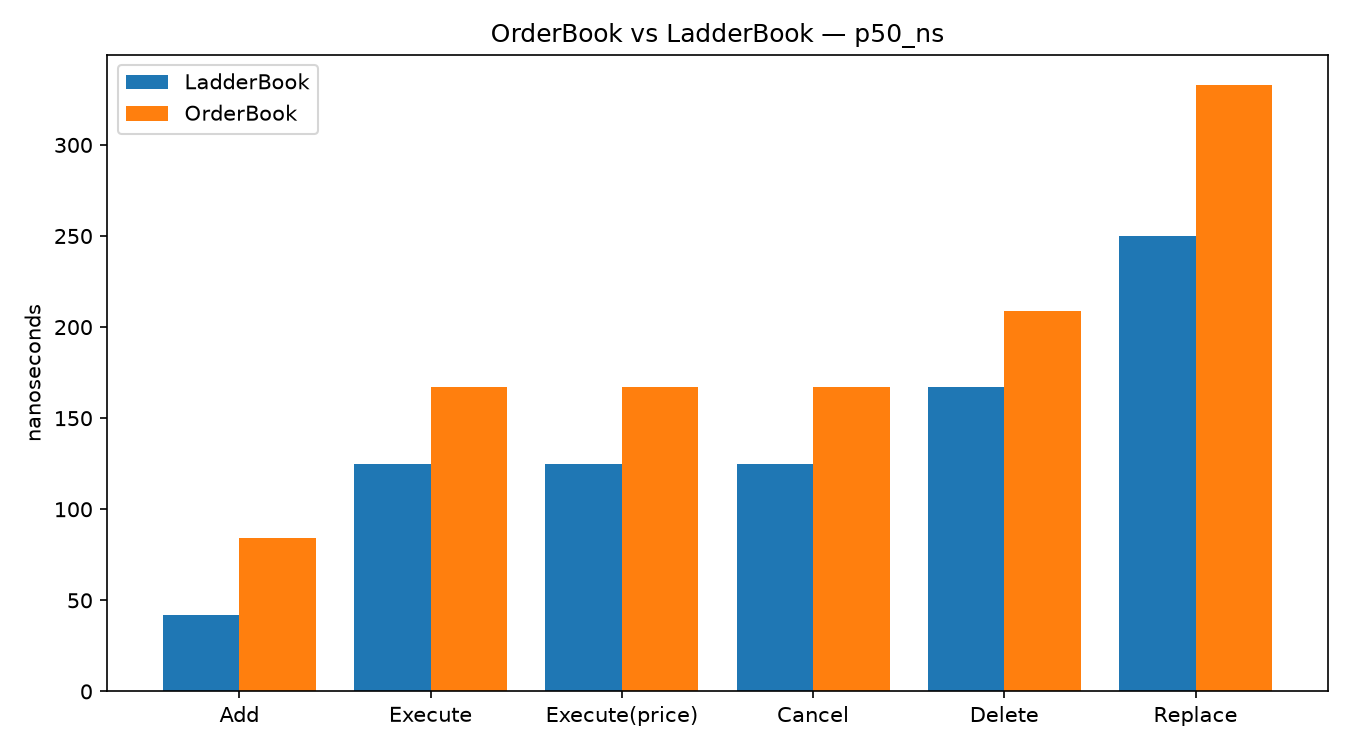
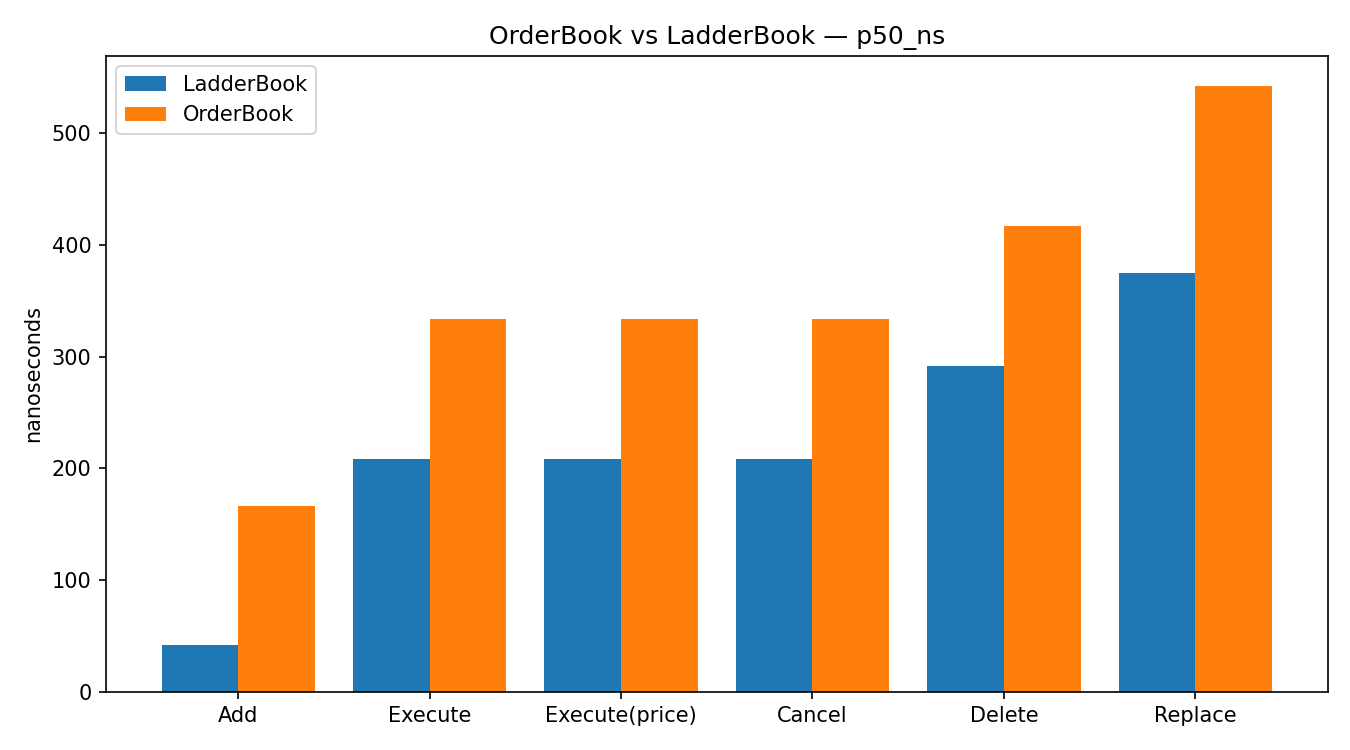
README: actually embed the benchmark charts, add CI/language/license badges
The bench/plots/*.png files existed but were never once referenced with
markdown image syntax anywhere in the README — a visitor to the GitHub repo
page saw text tables of numbers and a link to a plots/ directory, never an
actual chart, unless they clicked through and opened the PNGs by hand.

- Regenerated all three plots (python3 bench/plot.py) against Phase 1's
  fresh numbers (matplotlib had a broken system-Python/expat ABI mismatch in
  one environment; fixed by installing it into a venv built from Apple's
  system Python instead of the affected Homebrew one).
- Embedded all three (![...](bench/plots/*.png)) directly under the
  OrderBook-vs-LadderBook table so they render inline on GitHub.
- Added CI status, C++20, and MIT license badges at the top — the CI badge
  is live (reflects the actual latest workflow run), not a static image.

diff --git a/README.md b/README.md
@@ -1,5 +1,9 @@
 # itch-lob-engine
 
+[![CI](https://github.com/Manav0559/itch-lob-engine/actions/workflows/ci.yml/badge.svg)](https://github.com/Manav0559/itch-lob-engine/actions/workflows/ci.yml)
+[![C++20](https://img.shields.io/badge/C%2B%2B-20-blue.svg)](https://en.cppreference.com/w/cpp/20)
+[![License: MIT](https://img.shields.io/badge/License-MIT-yellow.svg)](LICENSE)
+
 A NASDAQ TotalView-ITCH 5.0 order-book reconstruction engine in C++20.
 
 Parses the real exchange binary protocol (length-prefixed `BinaryFILE`
@@ -132,8 +136,14 @@ cmake --build build --target bench && ./build/bench && python3 bench/plot.py
   | D    | 417 ns        | 292 ns         | 15,667 ns       | 10,375 ns        |
   | U    | 542 ns        | 375 ns         | 22,458 ns       | 12,042 ns        |
 
+  ![p50 latency, OrderBook vs LadderBook](bench/plots/p50_ns.png)
+  ![p99 latency, OrderBook vs LadderBook](bench/plots/p99_ns.png)
+  ![p99.9 latency, OrderBook vs LadderBook](bench/plots/p999_ns.png)
+
   Full distributions and plots: [bench/results.csv](bench/results.csv),
-  [bench/plots/](bench/plots/). `std::map`'s tail is dominated by
+  [bench/plots/](bench/plots/) (regenerate with `python3 bench/plot.py`
+  after any `./build/bench` run — requires `pip install matplotlib`).
+  `std::map`'s tail is dominated by
   red-black-tree rebalancing on insert/erase; `LadderBook` pays a fixed
   array-index cost regardless of how full the book is, at the cost of a
   bounded price window fixed at construction (see `include/book/ladder_book.hpp`).